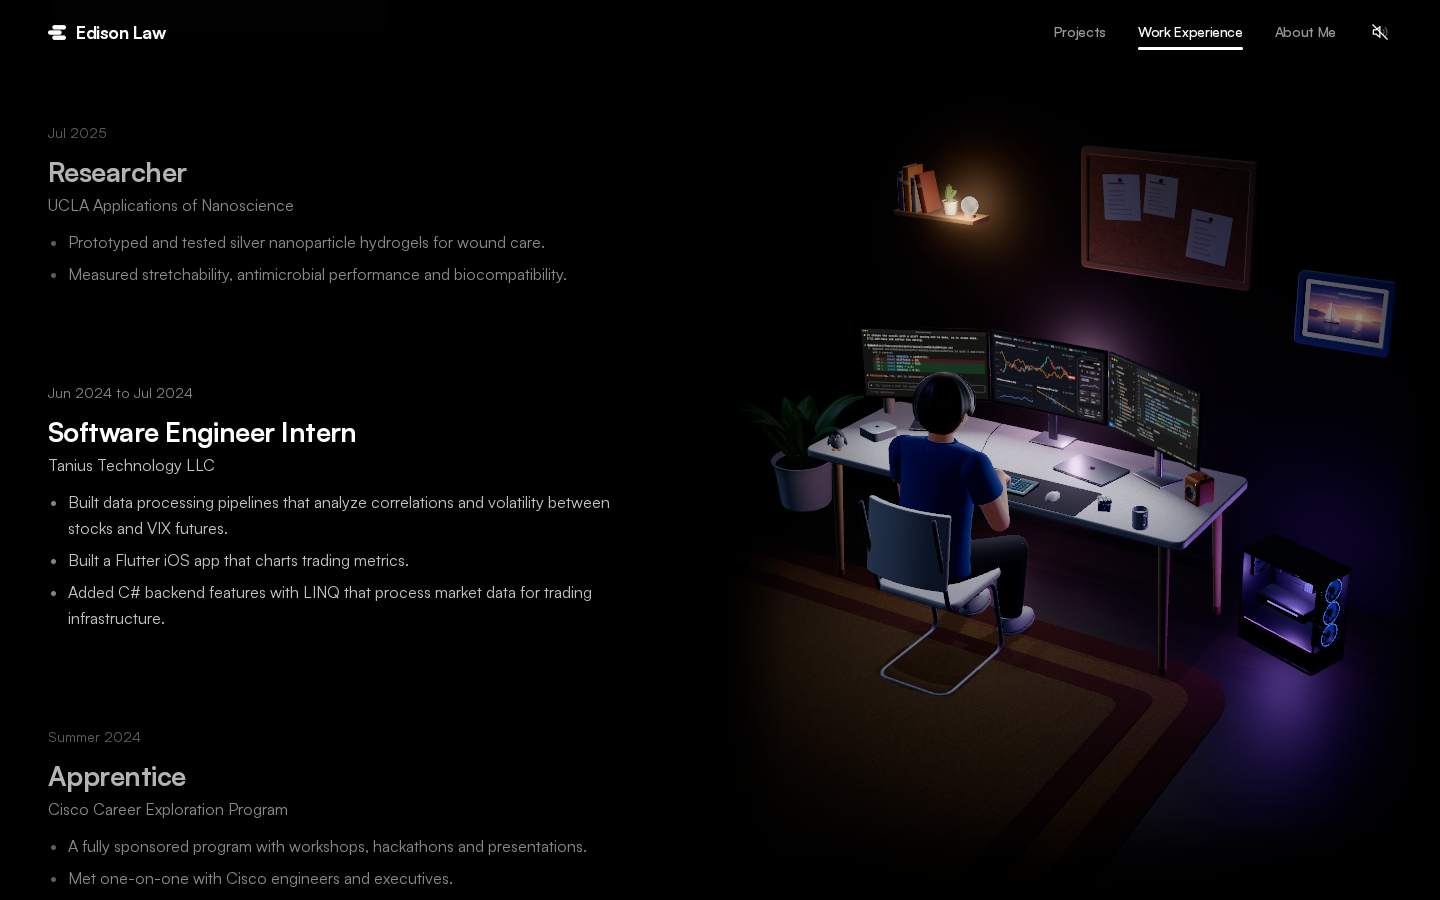
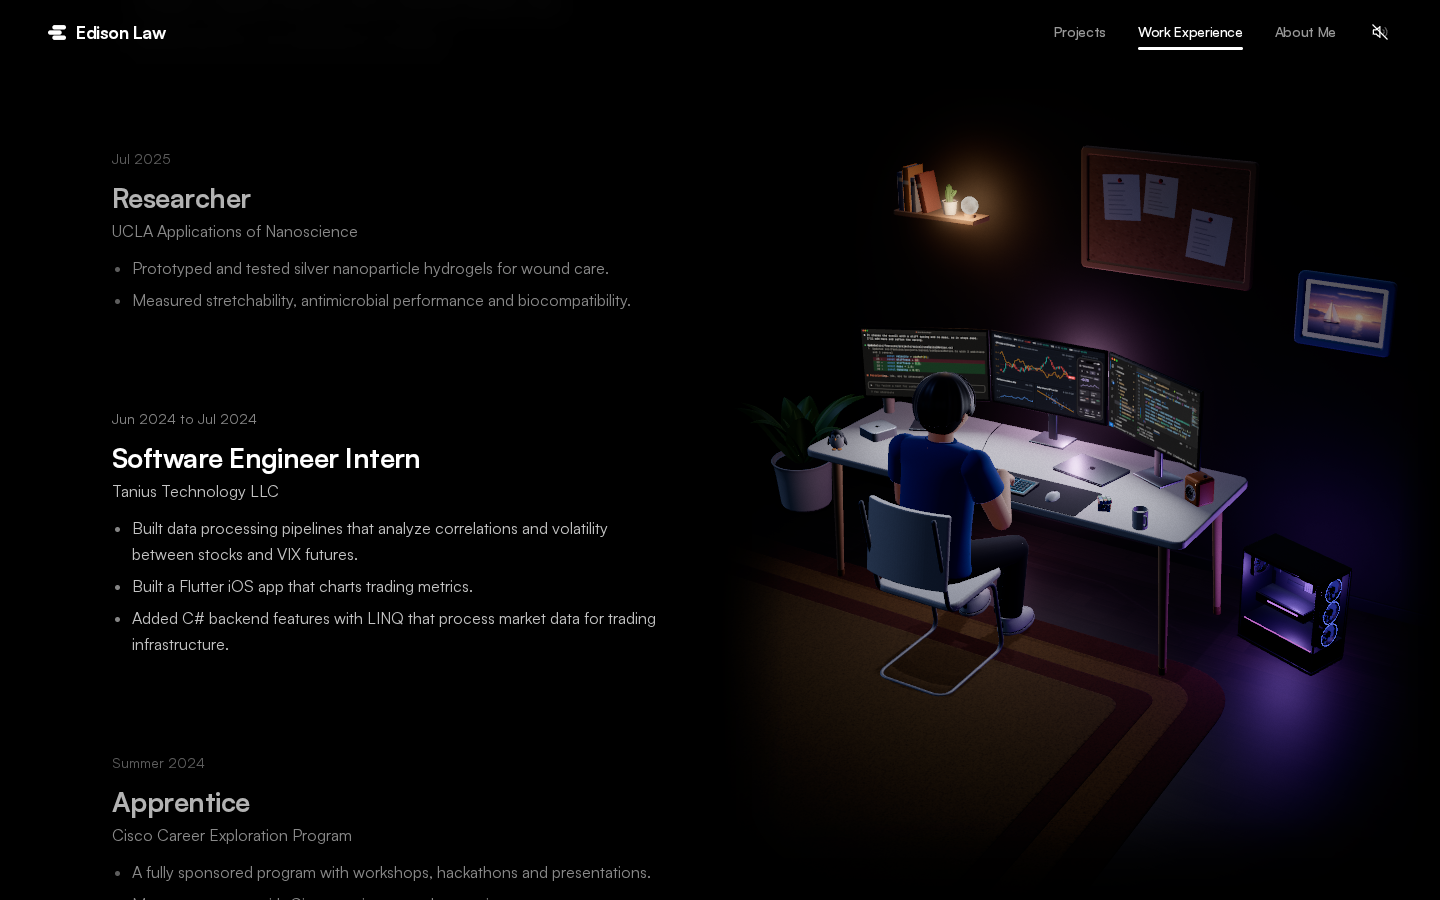
Give the Work Experience column some room from the left edge

diff --git a/src/features/experience/ExperienceTimeline.tsx b/src/features/experience/ExperienceTimeline.tsx
@@ -21,8 +21,9 @@ export function ExperienceTimeline({ header }: { header: ReactNode }) {
   return (
     <>
       <div className="gutter pt-16 pb-24 lg:pt-[calc(var(--spacing-nav)+4rem)] lg:pb-[40vh]">
-        {/* On very wide screens the column keeps a readable width and leans toward the middle of the page. */}
-        <div className="lg:ml-auto lg:max-w-3xl">
+        {/* On very wide screens the column keeps a readable width and leans toward the middle of the page.
+            It sits a little in from the left edge, so the text never hugs the window. */}
+        <div className="sm:pl-6 lg:ml-auto lg:max-w-3xl lg:pl-16">
           {header}
           <Timeline listRef={listRef} active={active} />
         </div>
